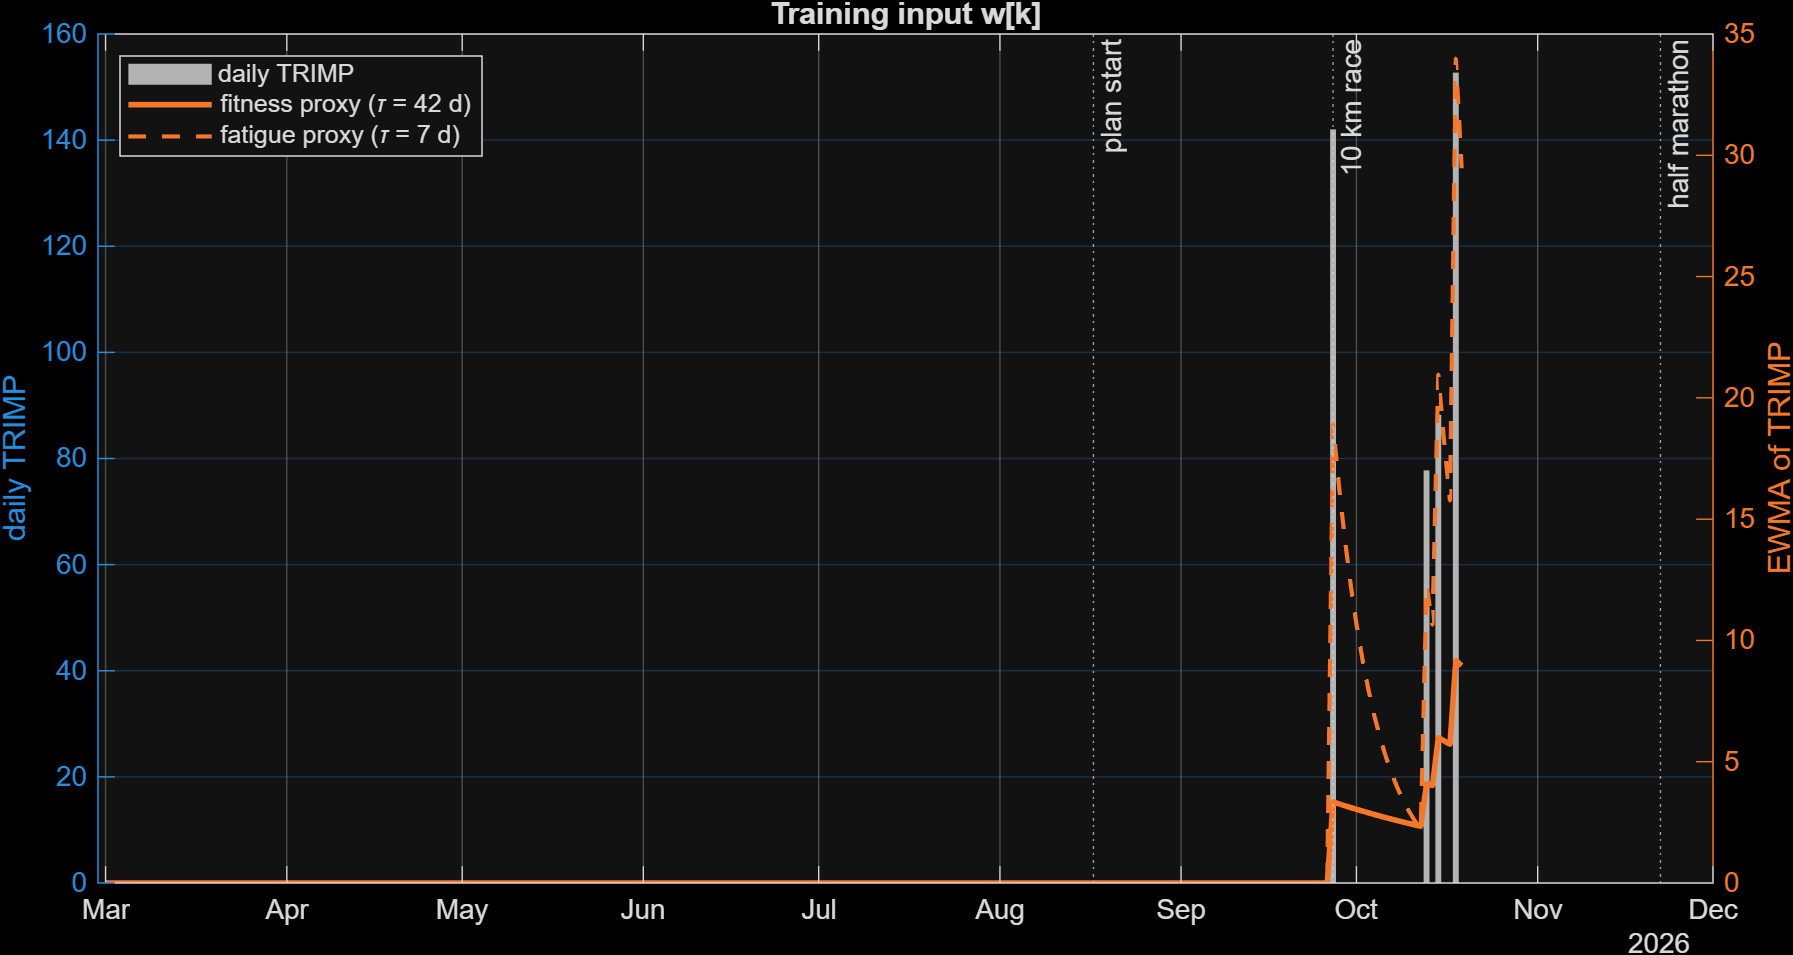
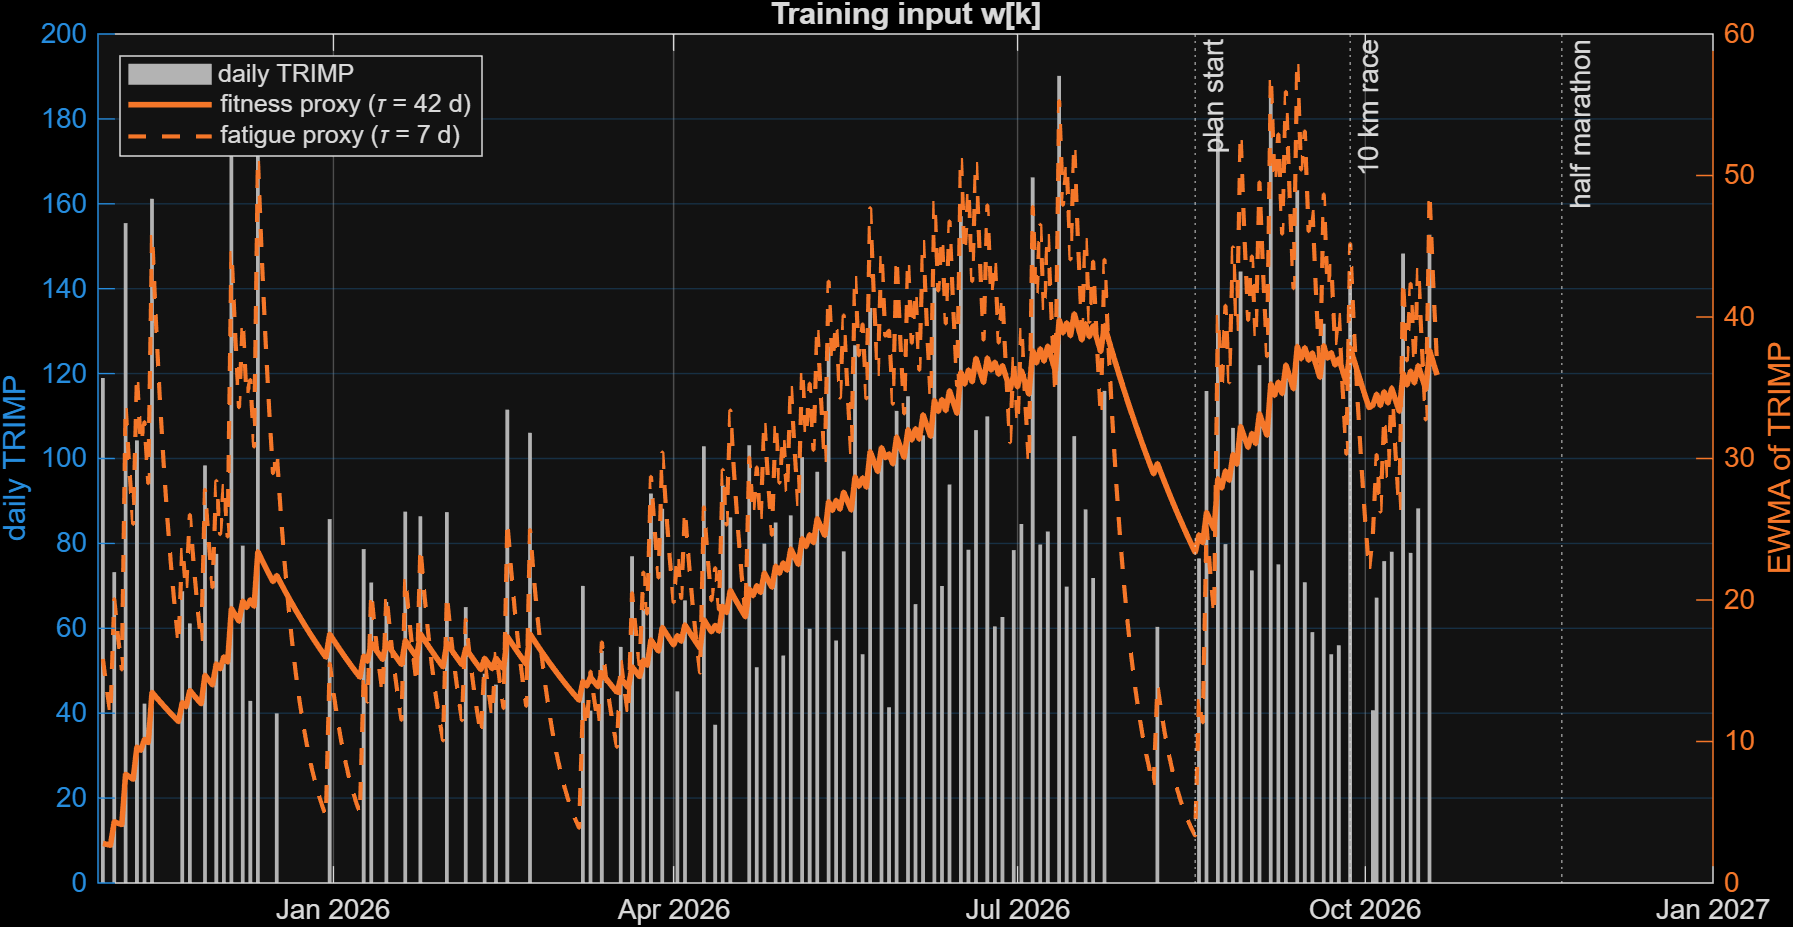
Step 1 complete: full export, header screening, dedup, burn-in from Nov 2025

diff --git a/src/io/fit_file_info.m b/src/io/fit_file_info.m
@@ -1,0 +1,84 @@
+function info = fit_file_info(fname)
+%FIT_FILE_INFO Read file type and creation time from the file_id message.
+%
+%   info = fit_file_info(fname)
+%
+% Reads only the first few records of a binary FIT file (fast), so that
+% thousands of files can be screened before the slow FIT->CSV conversion.
+%
+%   info.type     FIT file type: 4 = activity, 32 = monitoring, 49 = sleep, ...
+%                 NaN if the file could not be read
+%   info.created  time_created (datetime, UTC), NaT if missing
+%
+% FIT format: header (12 or 14 bytes), then records. Each record starts with
+% a 1-byte header: definition messages describe the layout of the following
+% data messages. file_id (global message 0) is normally the first data message.
+
+    info = struct('type', NaN, 'created', datetime(NaN, NaN, NaN, 'TimeZone', 'UTC'));
+    FIT_EPOCH = 631065600;   % 1989-12-31 00:00 UTC in Unix seconds
+
+    fid = fopen(fname, 'r', 'ieee-le');
+    if fid < 0, return; end
+    cleaner = onCleanup(@() fclose(fid));
+
+    hsize = fread(fid, 1, 'uint8');
+    if isempty(hsize) || hsize < 12, return; end
+    fseek(fid, hsize, 'bof');
+
+    defs = cell(1, 16);                       % one definition per local type
+    for n = 1:20
+        h = fread(fid, 1, 'uint8');
+        if isempty(h), return; end
+
+        if bitand(h, 128)                     % compressed-timestamp data header
+            lt = bitand(bitshift(h, -5), 3);
+            isDef = false;
+        else
+            lt = bitand(h, 15);
+            isDef = bitand(h, 64) > 0;
+        end
+
+        if isDef
+            fread(fid, 1, 'uint8');           % reserved
+            arch = fread(fid, 1, 'uint8');    % 0 little endian, 1 big endian
+            if arch == 1
+                gnum = fread(fid, 1, 'uint16', 'ieee-be');
+            else
+                gnum = fread(fid, 1, 'uint16');
+            end
+            nf = fread(fid, 1, 'uint8');
+            f  = reshape(fread(fid, 3*nf, 'uint8'), 3, [])';   % [num size baseType]
+            dev = 0;
+            if bitand(h, 32)                  % developer fields
+                nd  = fread(fid, 1, 'uint8');
+                df  = reshape(fread(fid, 3*nd, 'uint8'), 3, [])';
+                dev = sum(df(:, 2));
+            end
+            defs{lt+1} = struct('gnum', gnum, 'arch', arch, 'f', f, 'dev', dev);
+
+        else
+            d = defs{lt+1};
+            if isempty(d), return; end
+            if d.gnum == 0                    % file_id
+                for k = 1:size(d.f, 1)
+                    num = d.f(k, 1);  sz = d.f(k, 2);
+                    if num == 0 && sz == 1
+                        info.type = fread(fid, 1, 'uint8');
+                    elseif num == 4 && sz == 4
+                        if d.arch == 1
+                            t = fread(fid, 1, 'uint32', 'ieee-be');
+                        else
+                            t = fread(fid, 1, 'uint32');
+                        end
+                        info.created = datetime(t + FIT_EPOCH, ...
+                            'ConvertFrom', 'posixtime', 'TimeZone', 'UTC');
+                    else
+                        fseek(fid, sz, 'cof');
+                    end
+                end
+                return
+            end
+            fseek(fid, sum(d.f(:, 2)) + d.dev, 'cof');   % skip other messages
+        end
+    end
+end

diff --git a/src/io/convert_fit_to_csv.m b/src/io/convert_fit_to_csv.m
@@ -1,22 +1,50 @@
 function nConverted = convert_fit_to_csv(cfg, overwrite)
-%CONVERT_FIT_TO_CSV Batch-convert every .fit in cfg.paths.fit to CSV
+%CONVERT_FIT_TO_CSV Convert the relevant .fit files in cfg.paths.fit to CSV
 % using Garmin's FitCSVTool. Already-converted files are skipped.
 %
 %   n = convert_fit_to_csv(cfg)          skip existing CSVs
 %   n = convert_fit_to_csv(cfg, true)    reconvert everything
+%
+% A Garmin account export contains tens of thousands of FIT files (daily
+% monitoring, sleep, HRV, ...). Converting all of them would take hours, so
+% every file is first screened by reading only its header (fit_file_info):
+% only ACTIVITY files (type 4) created on/after cfg.dates.dataStart are kept.
 
     if nargin < 2, overwrite = false; end
     assert(isfile(cfg.paths.fitcsvtool), ...
         'FitCSVTool.jar not found in tools/. Download it from github.com/garmin/fit-sdk-tools/releases');
 
-    javaExe = find_java();
-    % search subfolders too: Garmin zips extract into one folder per activity
+    % search subfolders too: Garmin zips extract into nested folders
     files = dir(fullfile(cfg.paths.fit, '**', '*.fit'));
     if isempty(files)
         warning('No .fit files in %s', cfg.paths.fit);
+        nConverted = 0;
+        return
     end
-    nConverted = 0;
 
+    % --- 1. screen headers ------------------------------------------------
+    t0 = cfg.dates.dataStart;
+    t0.TimeZone = 'UTC';
+    keep  = false(numel(files), 1);
+    nAct  = 0;
+    fprintf('Screening %d FIT files...\n', numel(files));
+    for i = 1:numel(files)
+        info = fit_file_info(fullfile(files(i).folder, files(i).name));
+        if info.type == 4
+            nAct = nAct + 1;
+            keep(i) = isnat(info.created) || info.created >= t0;
+        end
+        if mod(i, 2000) == 0
+            fprintf('  %d / %d\n', i, numel(files));
+        end
+    end
+    files = files(keep);
+    fprintf('%d activity files in total, %d from %s onwards.\n', ...
+        nAct, numel(files), datestr(cfg.dates.dataStart, 'dd-mmm-yyyy'));
+
+    % --- 2. convert ----------------------------------------------------------
+    javaExe = find_java();
+    nConverted = 0;
     for i = 1:numel(files)
         in  = fullfile(files(i).folder, files(i).name);
         [~, name] = fileparts(files(i).name);
@@ -32,8 +60,11 @@ function nConverted = convert_fit_to_csv(cfg, overwrite)
         else
             nConverted = nConverted + 1;
         end
+        if mod(i, 25) == 0
+            fprintf('  converted %d / %d\n', i, numel(files));
+        end
     end
-    fprintf('%d FIT files converted (%d total in folder).\n', nConverted, numel(files));
+    fprintf('%d FIT files converted (%d selected).\n', nConverted, numel(files));
 end
 
 function javaExe = find_java()

diff --git a/config.m b/config.m
@@ -20,7 +20,11 @@ function cfg = config()
     cfg.athlete.sex    = 'M';   % TRIMP weighting coefficient depends on it
 
     % --- analysis windows ------------------------------------------------
-    cfg.dates.dataStart  = datetime(2026, 3, 1);
+    % dataStart: Nov 2025 -> Feb 2026 is pure burn-in for the model states
+    % (unstructured running, but load is load). The effect of the unknown
+    % initial state decays as exp(-t/tau1): ~6% after 4 months with tau1 = 42 d.
+    cfg.dates.dataStart  = datetime(2025, 11, 1);
+    cfg.dates.idStart    = datetime(2026, 3, 1);    % earliest date usable for identification
     cfg.dates.planStart  = datetime(2026, 8, 17);   % structured plan begins
     cfg.dates.race10k    = datetime(2026, 9, 27);
     cfg.dates.raceHalf   = datetime(2026, 11, 22);

diff --git a/README.md b/README.md
@@ -24,7 +24,7 @@ p[k]    = p0 + k1*x1[k] - k2*x2[k]
 
 | Phase | Content | Status |
 |---|---|---|
-| 1 | Data pipeline: FIT files -> per-second records -> daily load | in progress |
+| 1 | Data pipeline: FIT files -> per-second records -> daily load | done (20 Oct 2026) |
 | 2 | Performance index, exploratory analysis | |
 | 3 | System identification (nonlinear least squares), validation | |
 | 4 | State estimation (Kalman filter), daily online use | |
@@ -35,8 +35,9 @@ p[k]    = p0 + k1*x1[k] - k2*x2[k]
 
 | Window | Role |
 |---|---|
-| Mar 2026 - 16 Aug 2026 | state initialisation (burn-in) |
-| 17 Aug 2026 - 19 Oct 2026 | identification / validation (incl. 10 km race, 27 Sep, 40:59) |
+| Nov 2025 - Feb 2026 | state initialisation (burn-in, unstructured running) |
+| Mar 2026 - 16 Aug 2026 | identification (incl. intentional summer break 1-16 Aug) |
+| 17 Aug 2026 - 19 Oct 2026 | identification / validation (structured plan, 10 km race 27 Sep, 40:59) |
 | 20 Oct 2026 - 22 Nov 2026 | online use, half marathon = final test |
 
 ## Repository structure
@@ -45,18 +46,27 @@ p[k]    = p0 + k1*x1[k] - k2*x2[k]
 config.m                 athlete and pipeline parameters
 startup_project.m        adds src/ to the path
 main_01_pipeline.m       phase 1 entry point
-src/io/                  FIT conversion and parsing
+src/io/                  FIT header screening, conversion and parsing
 src/load/                training-load metrics (TRIMP)
 data/raw/fit/            original FIT files        (NOT committed)
 data/interim/csv/        FIT -> CSV conversions    (NOT committed)
 data/processed/          daily datasets (.mat)     (NOT committed)
+explore/                 exploratory scripts (synthetic Banister model)
+notes/                   results log, literature notes
 results/                 figures, tables
 ```
 
 Raw data is never committed: activity files contain GPS tracks (home location).
 
+## Data so far
+
+114 runs (Nov 2025 - Oct 2026) from the full Garmin account export (20,413 FIT files,
+screened by header: only activity files are converted). Three intentional rest periods
+(late Dec, late Feb / early Mar, 1-16 Aug) provide natural zero-load segments.
+See `notes/results_log.md`.
+
 ## Requirements
 
 - MATLAB R2021a or newer
 - Java (MATLAB ships its own, a system `java` on the PATH is also fine)
-- `FitCSVTool.jar` from the [Garmin FIT SDK](https://developer.garmin.com/fit/download/), placed in `tools/`
+- `FitCSVTool.jar` from [garmin/fit-sdk-tools releases](https://github.com/garmin/fit-sdk-tools/releases), placed in `tools/`

diff --git a/notes/results_log.md b/notes/results_log.md
@@ -47,3 +47,43 @@ race weighs like a long run; with Garmin load it weighs ~2.5 long runs.
 
 **Caveat:** 4 sessions only. Repeat on the full dataset (scatter plot TRIMP vs
 Garmin load, coloured by intensity) when the Garmin export arrives.
+
+---
+
+## 2026-10-20 — Full Garmin export, Step 1 on complete data
+
+**Run:** `main_01_pipeline` on the full account export (20,413 FIT files).
+Header screening (`fit_file_info.m`): 569 activity files in total, 108 from
+01-Mar-2026; 90 runs between 2026-03-08 and 2026-10-18.
+
+**Data issues found and fixed**
+- 4 activities counted twice (manual "Export Original" + account export, different
+  file names, identical content) → deduplication by start time; manual copies removed.
+- Activity CSVs of ~3 KB (no records, e.g. manual entries) are discarded (<60 samples).
+
+**August 2026: intentional training break (athlete's note)**
+- 1–16 Aug: holiday, running stopped on purpose (yearly ~2-week summer break).
+  One unstructured "for fun" run in that window.
+- These are TRUE zeros of the input w[k], not missing data.
+- Modelling value: a natural step-down experiment. With no load, fitness and
+  fatigue decay freely → direct information on tau1 / tau2 (detraining),
+  rarely observable during normal training.
+
+**Data window extended backwards**
+- Running before March 2026 was unstructured but is still training load.
+- `cfg.dates.dataStart` moved to 2025-11-01 (burn-in of the states);
+  `cfg.dates.idStart` = 2026-03-01 (earliest date usable for identification).
+
+**Re-run after dedup + burn-in from Nov 2025 (same day)**
+- 565 activity files in total (569 − 4 manual duplicates), 167 from 2025-11-01;
+  **114 runs** between 2025-11-01 and 2026-10-18. Duplicates gone (race day back to TRIMP ≈ 142).
+- Figure `results/fig01_daily_load.png`, fixed-parameter proxies (tau = 42 d / 7 d):
+  - fitness proxy: ~0 (Nov 2025, burn-in) → ~15 (Mar) → peak ~39 (mid-July)
+    → drop during the August break (~24) → ~36 now;
+  - three natural "load-off" periods visible: late Dec 2025, late Feb / early Mar 2026,
+    1–16 Aug 2026. Each one is a free-decay segment useful for identifying tau1, tau2.
+- Open question: cause of the Dec and Feb/Mar breaks (holiday vs illness/injury).
+  Illness/injury would also affect performance directly, not only through the load.
+- These curves use literature time constants; NOT the identified model (Step 3).
+
+**Step 1 closed.**
